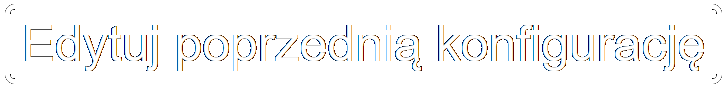
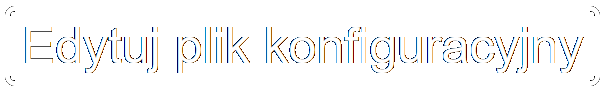
Update

diff --git a/PL/manual/manual.html b/PL/manual/manual.html
@@ -148,9 +148,9 @@
     
     <h1 id="introduction">Wst&#281;p</h1>
     <ul>
-      <li><span style="color:red">CANFIS</span> to narz&#281;dzie do wy&#347;wietlania parametr&#243;w modu&#322;u na ekranie klastra wska&#378;nik&#243;w.</li>
-      <li>Komunikuje si&#281; przy u&#380;yciu tego samego protoko&#322;u co jednostka nawigacyjna.</li>
-      <li>Obs&#322;uguje protoko&#322;y diagnostyczne KWP-CAN i UDS do odczytywania danych z modu&#322;&#243;w steruj&#261;cych.</li>
+      <li><span style="color:red">CANFIS</span> to narz&#281;dzie do wy&#347;wietlania parametr&#243;w z modu&#322;&#243;w na ekranie FIS zestawu wska&#378;nik&#243;w.</li>
+      <li>Komunikuje si&#281; on przy u&#380;yciu tego samego protoko&#322;u co jednostka nawigacyjna.</li>
+      <li>Obs&#322;uguje protoko&#322; diagnostyczne KWP-CAN i UDS, do odczytywania danych z modu&#322;&#243;w steruj&#261;cych.</li>
     </ul>
     
     <br>
@@ -231,7 +231,7 @@
     <h1 id="notes">Notatki</h1>
     <ul>
       <li>Mo&#380;e po&#322;&#261;czy&#263; si&#281; z modu&#322;ami, kt&#243;re u&#380;ywaj&#261; protoko&#322;u KWP-CAN lub UDS. Bloki pomiarowe nie istniej&#261; dla UDS.</li>
-      <li>Nie mo&#380;e by&#263; u&#380;ywany z jednostk&#261; nawigacyjn&#261;, kt&#243;ra r&#243;wnie&#380; musi by&#263; wy&#347;wietlana na ekranie.</li>
+      <li>Nie mo&#380;e by&#263; u&#380;ywany r&#243;wnolegle z jednostk&#261; nawigacyjn&#261;, kt&#243;ra r&#243;wnie&#380; wy&#347;wietla informacje na ekranie.</li>
       <ul>
         <li>Dla RNSE dost&#281;pne jest <a href="https://rnse.pcbbc.co.uk">niestandardowe oprogramowanie</a>, kt&#243;re umo&#380;liwia r&#243;wnoleg&#322;&#261; prac&#281; z nawigacj&#261;.
       </ul>
@@ -242,19 +242,19 @@
     
     <h1 id="installation">Instalacja</h1>
     <ul style="list-style:none">
-      <li>Do montażu modułu <span style="color:red">CANFIS</span> potrzebujesz: śrubokręt z końcówką 8mm, końcówką Torx 25.</li>
+      <li>Do monta&#380;u modu&#322;u <span style="color:red">CANFIS</span> potrzebujesz: &#347;rubokr&#281;t z ko&#324;c&#243;wk&#261; 8mm, ko&#324;c&#243;wk&#261; Torx 25.</li>
       <br>
       <ol type=1 id="installation_steps">
-        <li>Zdemontuj zaślepkę bezpieczników po lewej stronie deski rozdzielczej.</li>
-        <li>Wykręć 3 śruby o łbie 8mm: pierwsza pod klapką bezpieczników, dwie od dołu po lewej i po prawej stronie dolnej osłony deski rozdzielczej (tej, w której znajduje się przełącznik świateł oraz lampka oświetlenia nóg [w zależności od wyposażenia]).</li>
-        <li>Zdemontuj osłonę deski rozdzielczej, montowana jest na klipsach. Dla swobody pracy możesz wypiąć wtyczkę gniazda diagnostycznego, przełącznika świateł oraz ewentualnie oświetlenia nóg, a całą osłonę odłożyć na bok.</li>
-        <li>Śrubokrętem z końcówką Torx 25 odkręć dyszę nawiewu na nogi (śruba znajduje się mniejwięcej na środku). Dyszę wyciągnij i odłóż.</li>
-        <li>Po prawej stronie, ku górze znajduje się moduł Gateway oraz idąca do niego czerwona wtyczka (2003-2008), lub czarna wtyczka (2008-2012). Ostrożnie, nie szarpiąc, odłącz wtyczkę z modułu Gateway w aucie i podepnij ją do modułu <span style="color:red">CANFIS</span>. Natomiast wtyczkę wychodzącą z modułu <span style="color:red">CANFIS</span> podłącz do modułu Gateway w aucie.</li>
-        <li>Moduł <span style="color:red">CANFIS</span> ułóż luźno tak, aby przewód nie był naprężony.</li>
-        <li>Złóż wszystko w odwrotnej kolejności.</li>
+        <li>Zdemontuj za&#347;lepk&#281; bezpiecznik&#243;w po lewej stronie deski rozdzielczej.</li>
+        <li>Wykr&#281;&#263; 3 &#347;ruby o &#322;bie 8mm: pierwsza pod klapk&#261; bezpiecznik&#243;w, dwie od do&#322;u po lewej i po prawej stronie dolnej os&#322;ony deski rozdzielczej (tej, w kt&#243;rej znajduje si&#281; prze&#322;&#261;cznik &#347;wiate&#322; oraz lampka o&#347;wietlenia n&#243;g [w zale&#380;no&#347;ci od wyposa&#380;enia]).</li>
+        <li>Zdemontuj os&#322;on&#281; deski rozdzielczej, montowana jest na klipsach. Dla swobody pracy mo&#380;esz wypi&#261;&#263; wtyczk&#281; gniazda diagnostycznego, prze&#322;&#261;cznika &#347;wiate&#322; oraz ewentualnie o&#347;wietlenia n&#243;g, a ca&#322;&#261; os&#322;on&#281; od&#322;o&#380;y&#263; na bok.</li>
+        <li>&#346;rubokr&#281;tem z ko&#324;c&#243;wk&#261; Torx 25 odkr&#281;&#263; dysz&#281; nawiewu na nogi (&#347;ruba znajduje si&#281; mniejwi&#281;cej na &#347;rodku). Dysz&#281; wyci&#261;gnij i od&#322;&#243;&#380;.</li>
+        <li>Po prawej stronie, ku g&#243;rze znajduje si&#281; modu&#322; Gateway oraz id&#261;ca do niego czerwona wtyczka (2003-2008), lub czarna wtyczka (2008-2012). Ostro&#380;nie, nie szarpi&#261;c, od&#322;&#261;cz wtyczk&#281; z modu&#322;u Gateway w aucie i podepnij j&#261; do modu&#322;u <span style="color:red">CANFIS</span>. Natomiast wtyczk&#281; wychodz&#261;c&#261; z modu&#322;u <span style="color:red">CANFIS</span> pod&#322;&#261;cz do modu&#322;u Gateway w aucie.</li>
+        <li>Modu&#322; <span style="color:red">CANFIS</span> u&#322;&#243;&#380; lu&#378;no tak, aby przew&#243;d nie by&#322; napr&#281;&#380;ony.</li>
+        <li>Z&#322;&#243;&#380; wszystko w odwrotnej kolejno&#347;ci.</li>
       </ol>
       <br>
-      <li>Upewnij się, że moduł <b>37 - Nawigacja</b> jest włączony na liście połączeń Gateway.</li>
+      <li>Upewnij si&#281;, &#380;e modu&#322; <b>37 - Nawigacja</b> jest w&#322;&#261;czony na li&#347;cie po&#322;&#261;cze&#324; Gateway.</li>
       <center>
         <figure>
           <img src="media/installation/gateway_installation_list.png">
@@ -267,7 +267,7 @@
     
     <h1 id="getting_started">Pierwsze kroki</h1>
     <ul>
-      <li>Zainstaluj moduł, postępując zgodnie z instrukcjami w rozdziale <a href="#installation"><b>Instalacja</b></a>.</li>
+      <li>Zainstaluj modu&#322;, post&#281;puj&#261;c zgodnie z instrukcjami w rozdziale <a href="#installation"><b>Instalacja</b></a>.</li>
       <li>Przeczytaj rozdzia&#322; <a href="#operating_the_menu"><b>Obs&#322;uga menu</b></a>, aby dowiedzie&#263; si&#281;, jak korzysta&#263; z menu.</li>
       <li>Post&#281;puj zgodnie z instrukcjami w rozdziale <a href="#config_editor"><b>U&#380;ywanie edytora konfiguracji</b></a>, aby utworzy&#263; plik konfiguracyjny.</li>
       <li>Gdy ju&#380; b&#281;dziesz mie&#263; plik <i>config.bin</i>, przejd&#378; do <a class="white_link" href="#update"><b>Ustawienia>Aktualizacja</b></a>, po&#322;&#261;cz si&#281; z sieci&#261; Wi-Fi i przejd&#378; do strony internetowej, tak jak wyja&#347;niono w odpowiednim rozdziale.</li>
@@ -425,7 +425,7 @@
       
       <h2 id="draw_graph">Rysuj (Wykres)</h2>
       <ul>
-        <li>Narysuj wykres tak, jak zosta&#322; skonfigurowany.</li>
+        <li>Zostanie narysowany wykres tak, jak zosta&#322; skonfigurowany.</li>
         <br>
         <center>
           <figure>
@@ -618,7 +618,7 @@
             <img src="media/menu/TOOLS/oil_level.png">
             <img src="media/menu/TOOLS/back.png">
           </figure>
-          <figcaption><a href="#acceleration_timer"><b>Przyśpieszenie</b></a> - zmierz, jak szybko pojazd przyspiesza mi&#281;dzy dwiema pr&#281;dko&#347;ciami</figcaption>
+          <figcaption><a href="#acceleration_timer"><b>Przy&#347;pieszenie</b></a> - zmierz przy&#347;pieszenie, mi&#281;dzy dwoma wybranymi pr&#281;dko&#347;ciami</figcaption>
           <figcaption><a href="#oil_level_gauge"><b>Poziom oleju</b></a> - odczytaj bie&#380;&#261;cy poziom oleju</figcaption>
           <figcaption><a href="#tools"><b>Wstecz</b></a> - powr&#243;t do menu <b>Narz&#281;dzia</b></figcaption>
         </center>
@@ -857,7 +857,7 @@
             <img src="media/menu/SETTINGS/UPDATE/update.png">
           </figure>
         </center>
-        <li>Sie&#263; nie ma dost&#281;pu do Internetu, co mo&#380;e spowodowa&#263; skargi niekt&#243;rych telefon&#243;w kom&#243;rkowych.</li>
+        <li>Sie&#263; nie ma dost&#281;pu do internetu, co mo&#380;e zg&#322;osi&#263; telefon kom&#243;rkowy - zignoruj to.</li>
         <li>Dodatkowo powiniene&#347; wy&#322;&#261;czy&#263; dane mobilne, aby unikn&#261;&#263; automatycznego roz&#322;&#261;czania si&#281; z Wi-Fi.</li>
         <br>
         <li>Po po&#322;&#261;czeniu si&#281; z sieci&#261; Wi-Fi, otw&#243;rz przegl&#261;dark&#281; internetow&#261; i przejd&#378; pod adres <b>192.168.1.1</b>.</li>
@@ -914,7 +914,7 @@
     <ul>
       <h2 id="config_editor_optional_step">Opcjonalny krok</h2>
       <ul style="list-style:none">
-        <li>Je&#347;li ju&#380; masz plik konfiguracyjny, kt&#243;ry chcesz edytowa&#263;, naci&#347;nij przycisk <i>Edytuj poprzedni&#261; konfiguracj&#281;</i> u g&#243;ry strony i wybierz plik.</li>
+        <li>Je&#347;li ju&#380; masz plik konfiguracyjny, kt&#243;ry chcesz edytowa&#263;, naci&#347;nij przycisk <i>Edytuj plik konfiguracyjny</i> u g&#243;ry strony i wybierz plik.</li>
         <center>
           <figure>
             <img src="media/config_editor/edit_previous_config.png">
@@ -927,7 +927,7 @@
     <hr>
     
     <ul>
-      <h2 id="config_editor_step1">Krok 1: <i>Wybierz zawarte narz&#281;dzia</i></h2>
+      <h2 id="config_editor_step1">Krok 1: <i>Wybierz narz&#281;dzia dodatkowe</i></h2>
       <ul>
         <center>
           <figure>
@@ -936,7 +936,7 @@
         </center>
         <li>W pierwszej sekcji zobaczysz rozwijan&#261; list&#281; narz&#281;dzi, kt&#243;re mo&#380;esz w&#322;&#261;czy&#263;.</li>
         <li>Aby w&#322;&#261;czy&#263; narz&#281;dzie, wybierz je i zaznacz pole wyboru <b><i>W&#322;&#261;czone</i></b>.</li>
-        <li>Gdy narz&#281;dzie jest w&#322;&#261;czone, mo&#380;esz je skonfigurowa&#263; w opcjach pod <b><i>Skonfiguruj zawarte narz&#281;dzia</i></b>.</li>
+        <li>Gdy narz&#281;dzie jest w&#322;&#261;czone, mo&#380;esz je skonfigurowa&#263; w opcjach pod <b><i>Skonfiguruj narz&#281;dzia dodatkowe</i></b>.</li>
         <br>
         <ol type=a>
           <li>Narz&#281;dzie <b><i>Licznik przyspieszenia</i></b></li>
@@ -1342,8 +1342,8 @@
     <hr>
     
     <ul style="list-style:none">
-      <h2 id="config_editor_step4">Krok 4: Pobiera&#263;</i></h2>
-      <p>Po skonfigurowaniu wszystkiego, naci&#347;nij przycisk <i>Pobierz aktualn&#261; konfiguracj&#281;</i> na dole strony.</p>
+      <h2 id="config_editor_step4">Krok 4: Pobieranie</i></h2>
+      <p>Po skonfigurowaniu wszystkiego, naci&#347;nij przycisk <i>Pobierz plik konfiguracyjny</i> na dole strony.</p>
       <center>
         <figure>
           <img src="media/config_editor/download.png">

diff --git a/PL/config_editor/config_editor.html b/PL/config_editor/config_editor.html
@@ -9,7 +9,6 @@
     font-family: sans-serif;
     font-size: 14px;
     color: white;
-    //background-image: url('media/background.jpeg');
     background-color: black;
   }
   
@@ -602,7 +601,7 @@
       <td style='border:none'>
         <label class='custom-file-upload'>
           <input type='file' onchange='load_file(event)'/>
-          Edytuj poprzedni&#261; konfiguracj&#281;
+          Edytuj plik konfiguracyjny
         </label>
       </td>
     </tr>
@@ -613,8 +612,8 @@
   <h1>Krok 1</h1>
   <table>
     <tr>
-      <th>Wybierz zawarte narz&#281;dzia</th>
-      <th>Skonfiguruj zawarte narz&#281;dzia</th>
+      <th>Wybierz narz&#281;dzia dodatkowe</th>
+      <th>Skonfiguruj narz&#281;dzia dodatkowe</th>
     </tr>
     <tr>
       <td>
@@ -792,7 +791,7 @@
       <td style='border:none'>
         <label class='custom-file-upload'>
           <input type='button' onclick='download_file()'/>
-          Pobierz aktualn&#261; konfiguracj&#281;
+          Pobierz plik konfiguracyjny
         </label>
       </td>
     </tr>

diff --git a/EN/manual/manual.html b/EN/manual/manual.html
@@ -857,7 +857,7 @@
             <img src="media/menu/SETTINGS/UPDATE/update.png">
           </figure>
         </center>
-        <li>The network has no internet access, which might make some mobile phones complain.</li>
+        <li>The network does not have internet access, which may be reported by the mobile phone - ignore it.</li>
         <li>Additionally, you should turn off mobile data to avoid disconnecting from Wi-Fi automatically.</li>
         <br>
         <li>After connecting to the Wi-Fi network, open a web browser and go to the address <b>192.168.1.1</b>.</li>

diff --git a/EN/config_editor/config_editor.html b/EN/config_editor/config_editor.html
@@ -9,7 +9,6 @@
     font-family: sans-serif;
     font-size: 14px;
     color: white;
-    background-image: url('media/background.jpeg');
     background-color: black;
   }
   
